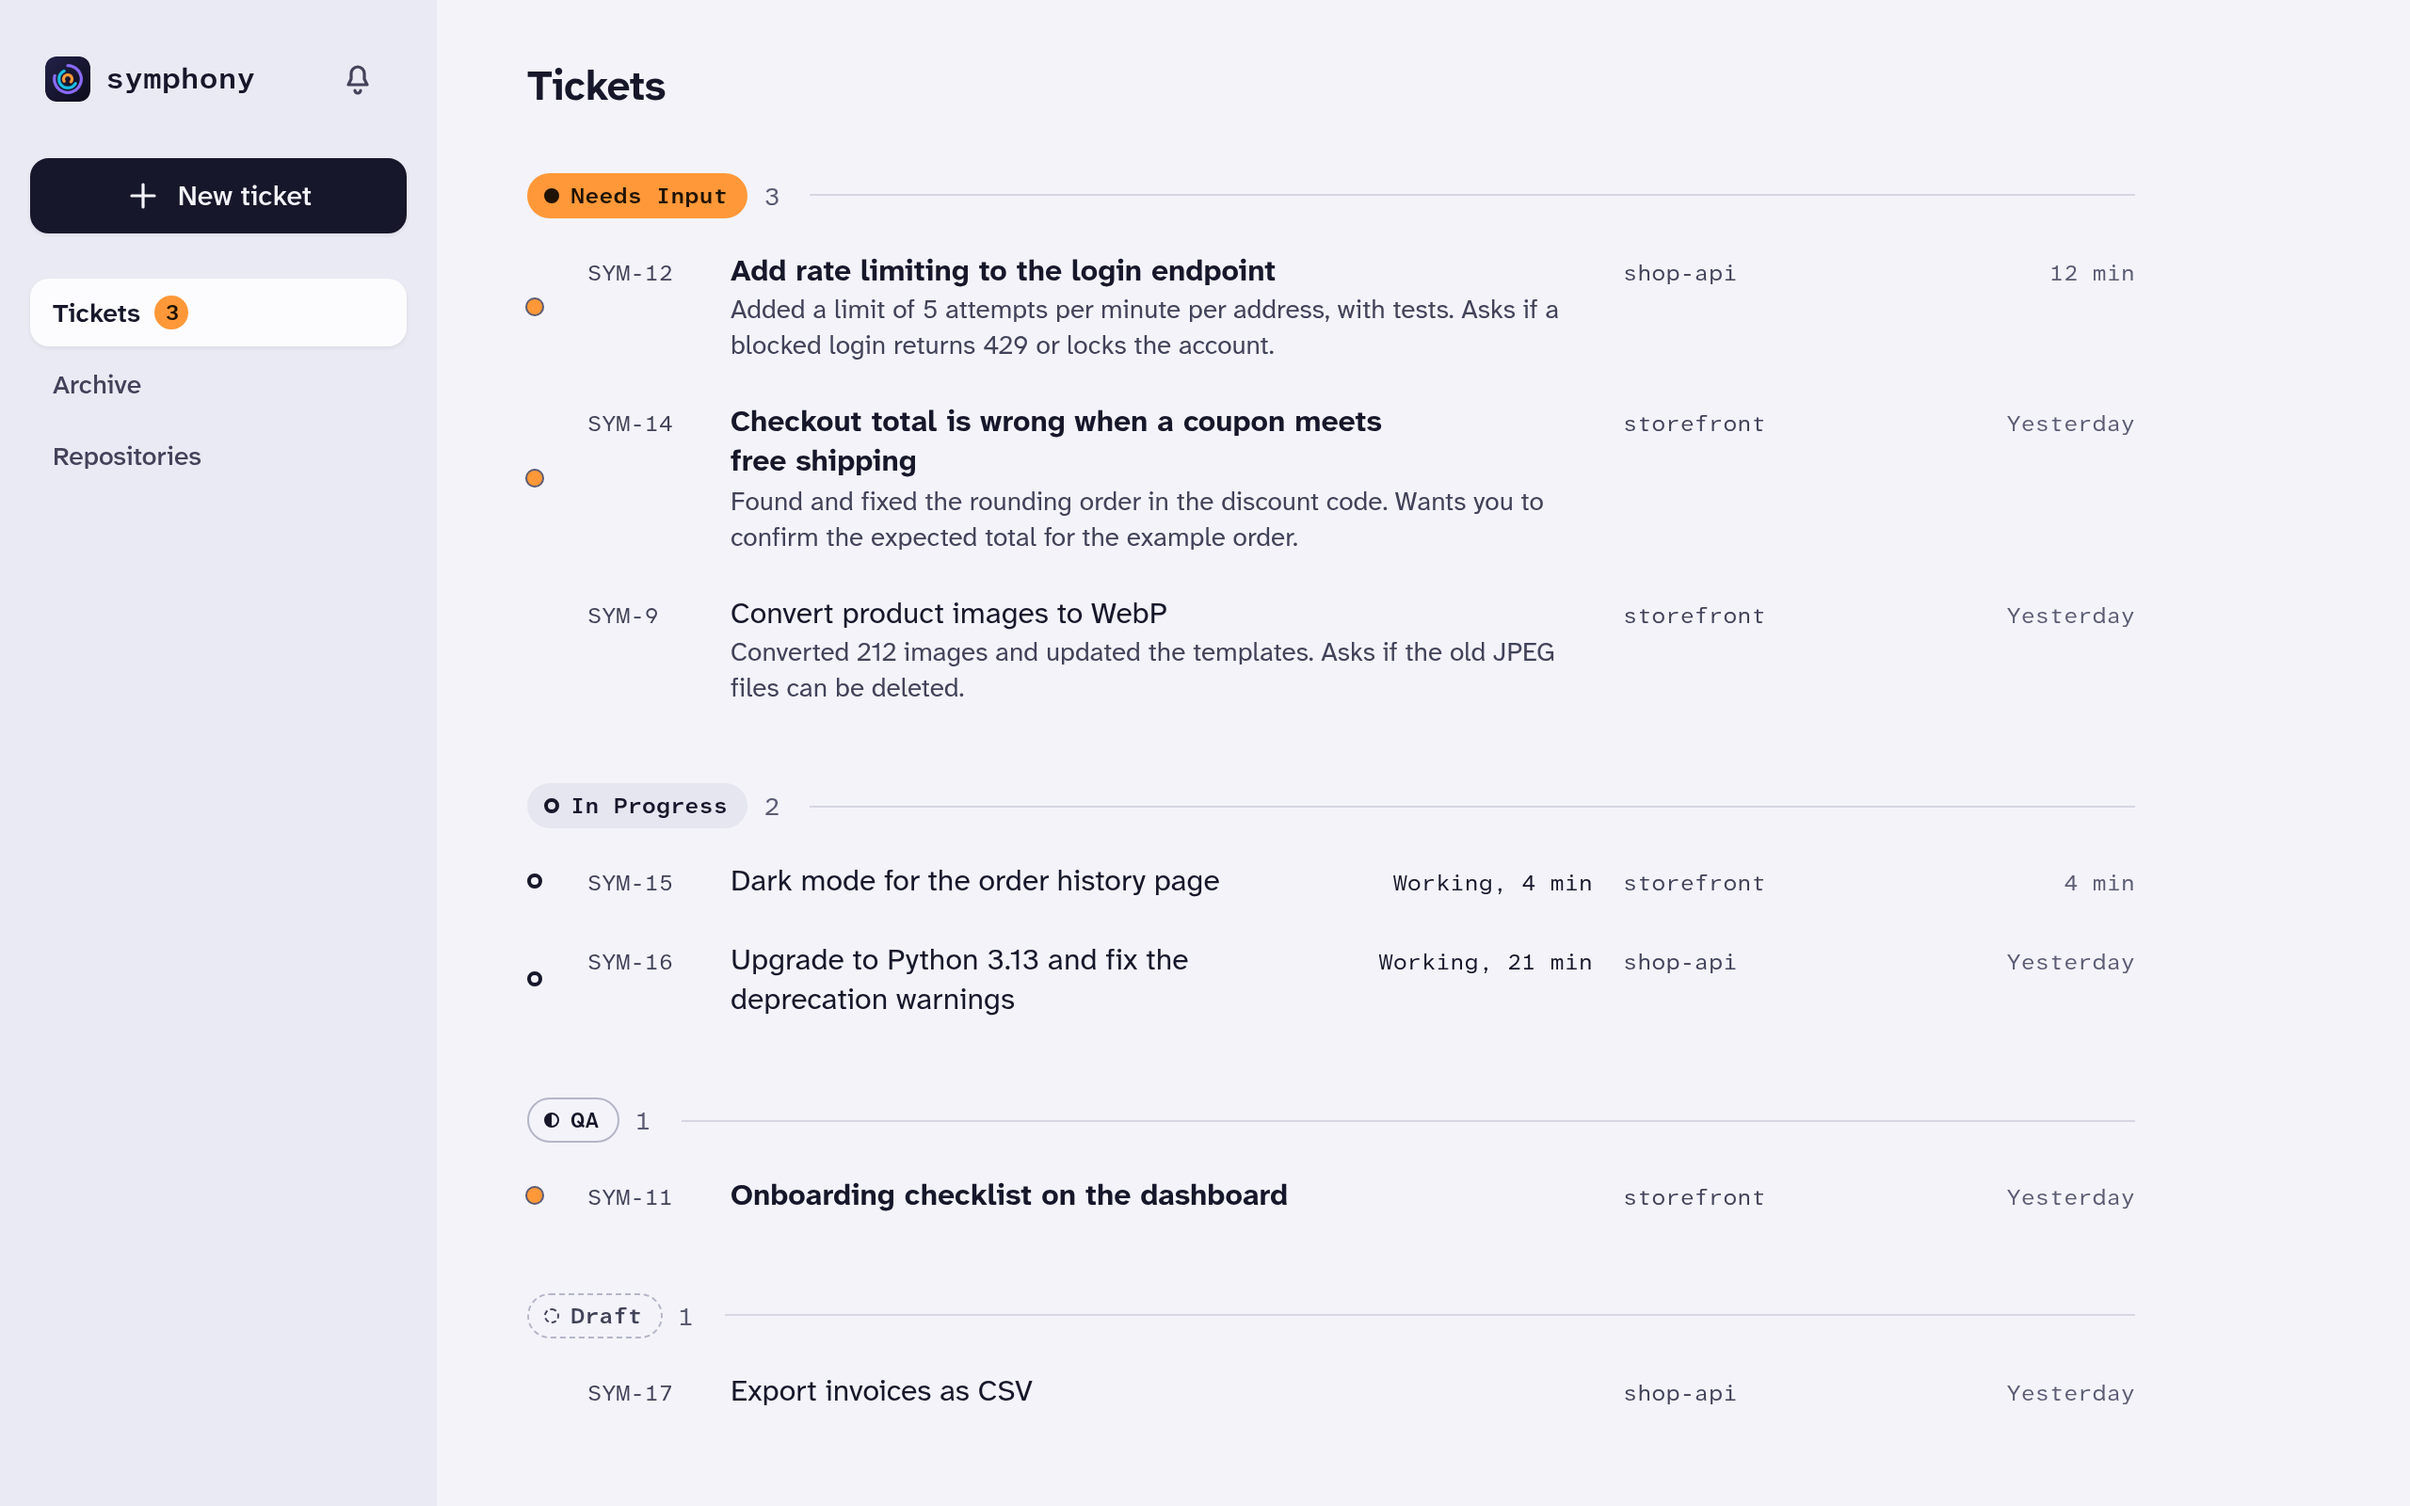
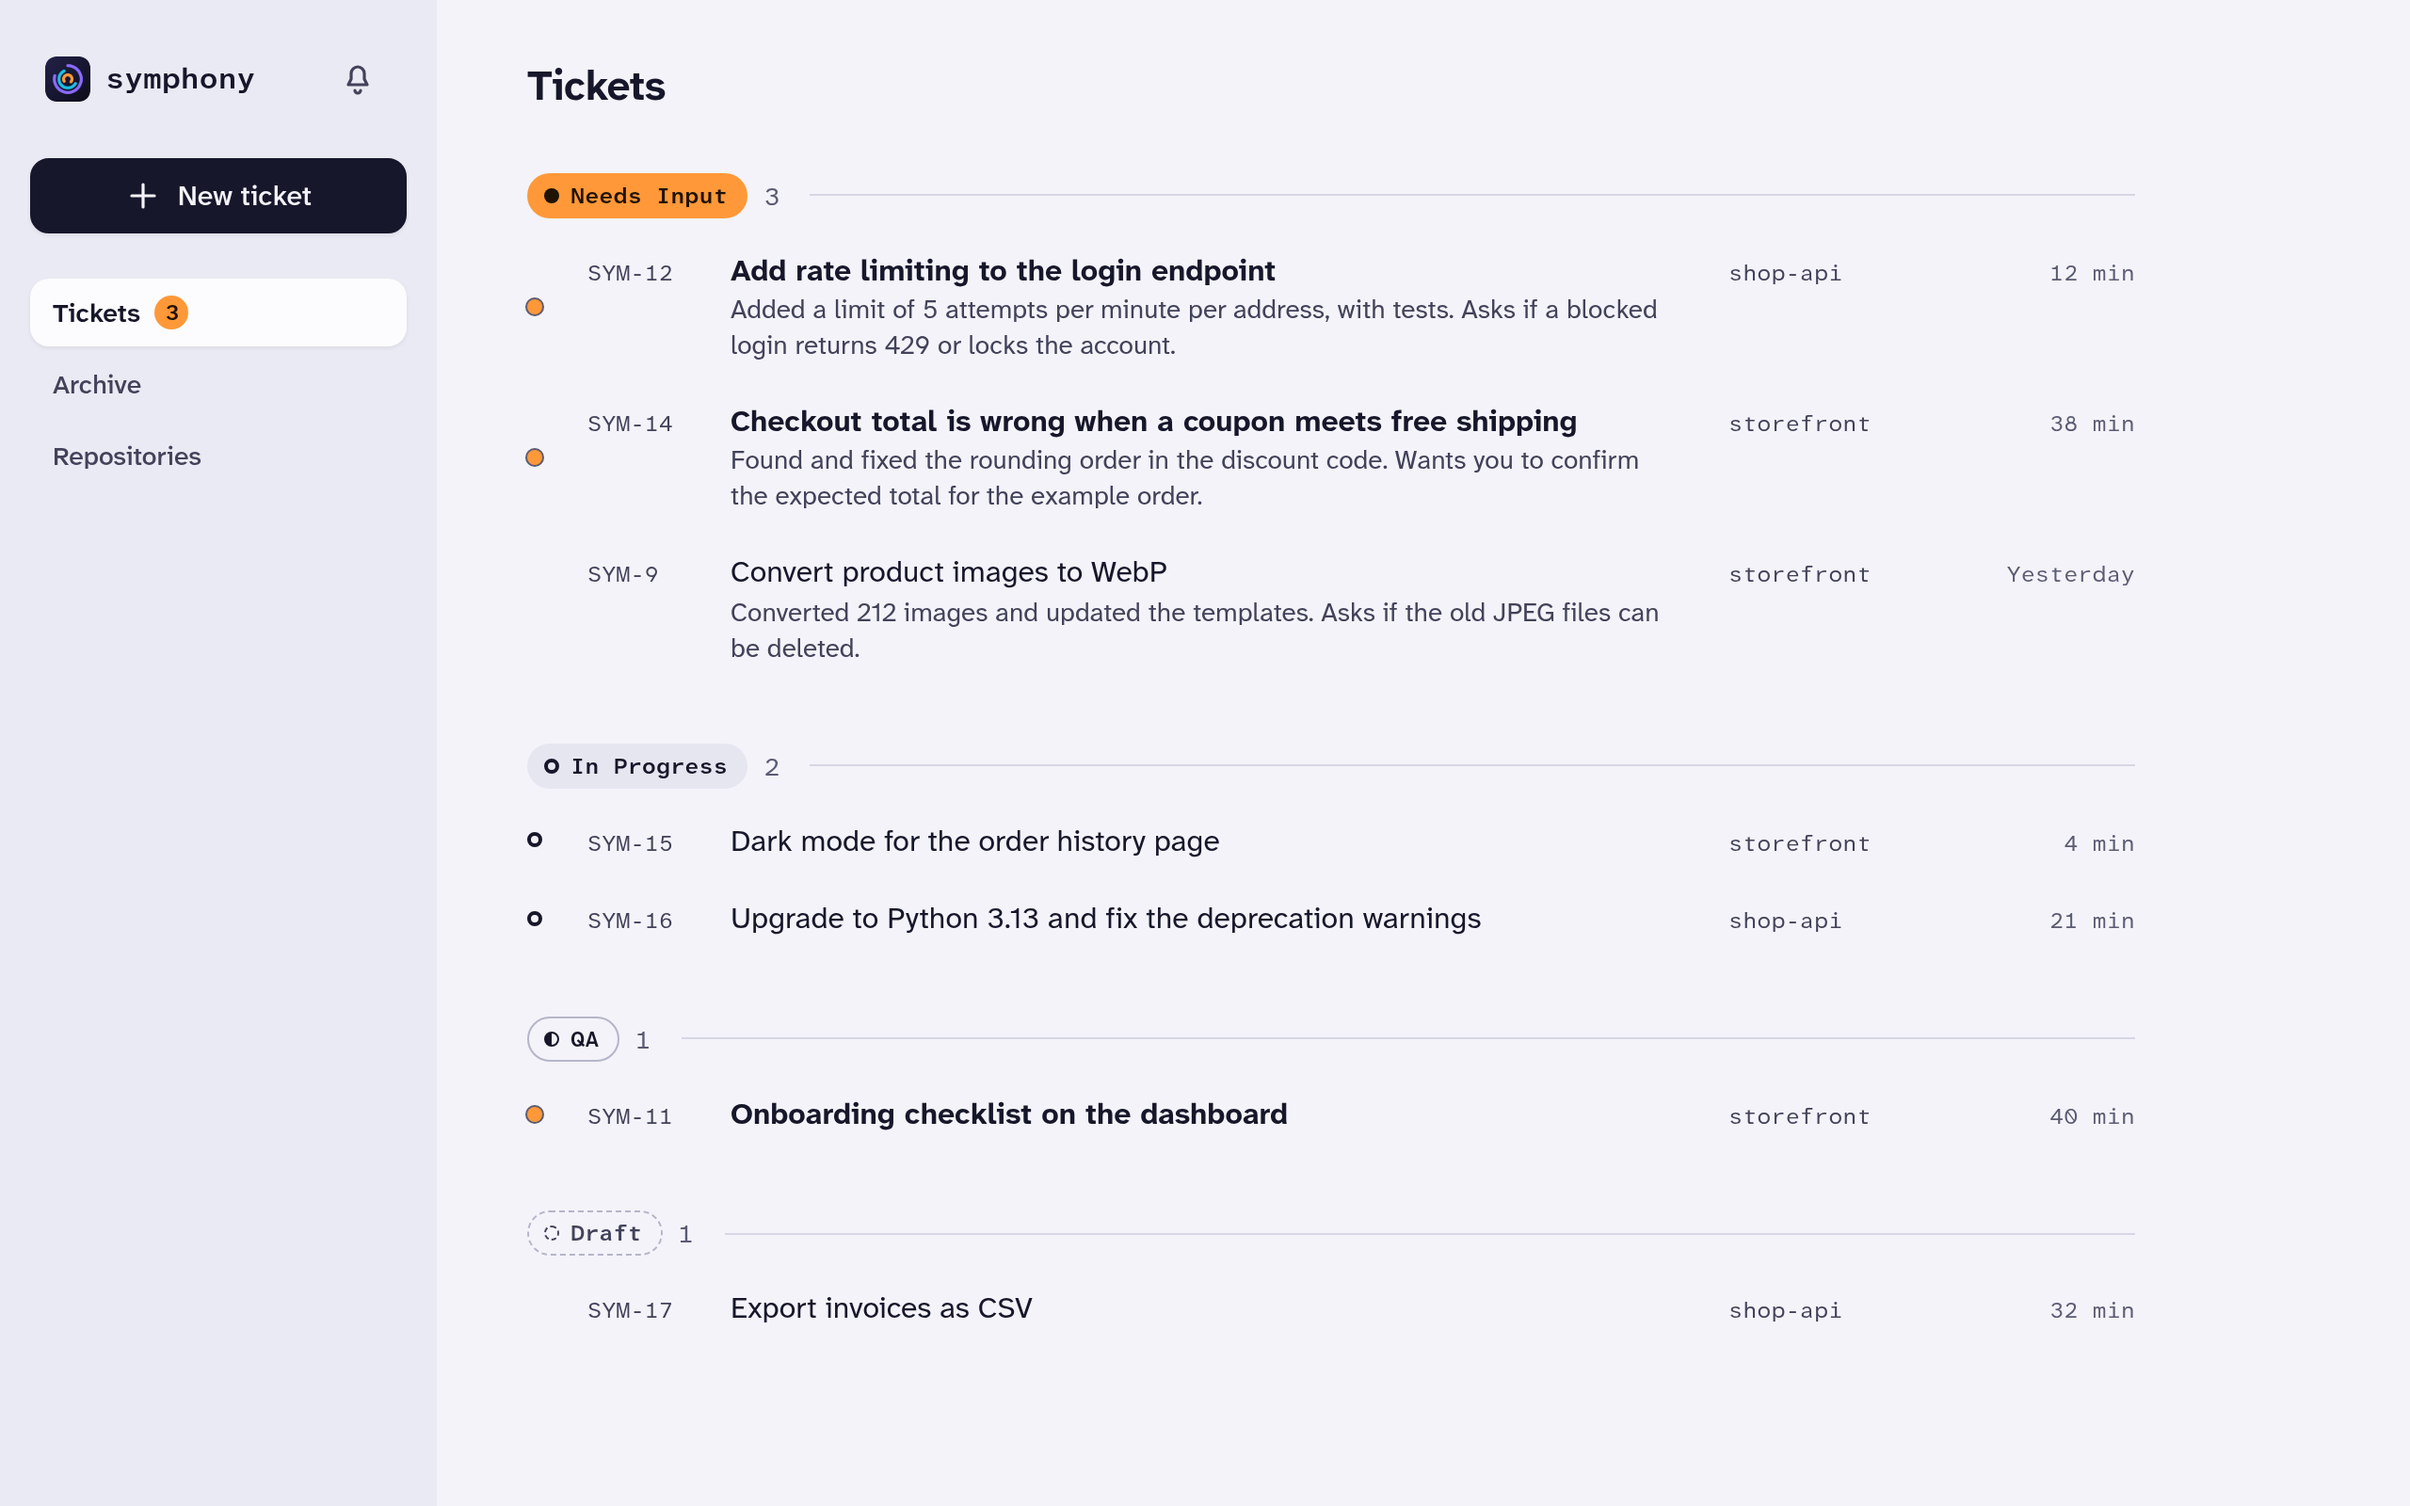
fix: Drop the duplicate working time from list rows and narrow the repo column

diff --git a/symphony_linear/webui/templates/_macros.html b/symphony_linear/webui/templates/_macros.html
@@ -57,7 +57,6 @@
     <span class="row-sub">
       <span class="row-id">{{ row.id }}</span>
       <span class="row-repo"{% if row.repo_url %} title="{{ row.repo_url }}"{% endif %}>{{ row.repo }}</span>
-      {%- if row.working and row.working_for %}<span class="row-flag">Working, {{ row.working_for }}</span>{% endif -%}
       {%- if row.failed %}<span class="row-flag row-flag--failed">Last turn failed</span>{% endif -%}
     </span>
     <span class="row-time"><time datetime="{{ row.updated_at }}" data-format="relative">{{ row.updated_text }}</time></span>

diff --git a/symphony_linear/webui/static/symphony.css b/symphony_linear/webui/static/symphony.css
@@ -437,7 +437,7 @@ body.sym { min-height: 100dvh; }
     padding-right: max(var(--s7), calc(100% - 960px + var(--s7)));
   }
   .row {
-    grid-template-columns: 16px 60px minmax(0, 1fr) auto 176px 80px;
+    grid-template-columns: 16px 60px minmax(0, 1fr) auto 120px 80px;
     grid-template-areas: "mark id title flag repo time";
     column-gap: var(--s4); align-items: baseline;
     padding: 9px var(--s3);

diff --git a/symphony_linear/webui/views.py b/symphony_linear/webui/views.py
@@ -90,7 +90,6 @@ class Row:
     updated_at: str
     updated_text: str
     working: bool
-    working_for: str | None
     failed: bool
     unread: bool
 
@@ -184,20 +183,6 @@ def _utc_text(value: str) -> str:
     return parsed.astimezone(timezone.utc).strftime("%d %b %Y, %H:%M UTC")
 
 
-def _elapsed_text(start: str, now: datetime) -> str:
-    parsed = _parse_datetime(start)
-    if parsed is None:
-        return "0 s"
-    seconds = max(0, int((now - parsed).total_seconds()))
-    if seconds < 60:
-        return f"{seconds} s"
-    if seconds < 3600:
-        return f"{seconds // 60} min"
-    if seconds < 86400:
-        return f"{seconds // 3600} h"
-    return f"{seconds // 86400} d"
-
-
 # ---------------------------------------------------------------------------
 # Row assembly
 # ---------------------------------------------------------------------------
@@ -232,7 +217,6 @@ def latest_agent_summary(ticket: LocalTicket) -> str | None:
 def _row(
     ticket: LocalTicket,
     state_entry: TicketState | None,
-    now: datetime,
     names: Mapping[str, str],
 ) -> Row:
     failed = turn_failed(state_entry)
@@ -254,7 +238,6 @@ def _row(
         updated_at=ticket.updated_at,
         updated_text=_utc_text(ticket.updated_at),
         working=working,
-        working_for=_elapsed_text(ticket.state_changed_at, now) if working else None,
         failed=failed,
         unread=is_unread(ticket),
     )
@@ -286,7 +269,6 @@ def _fingerprint(value: object) -> str:
 
 def home_list(request: Request) -> HomeList:
     """Build the home page's groups and the fingerprint of their rendering."""
-    now = datetime.now(timezone.utc)
     tickets = request.app.store.list_tickets()
     state_entries = _state_entries(request)
     names = repo_names(request.app.store.list_repos())
@@ -296,8 +278,7 @@ def home_list(request: Request) -> HomeList:
         matching = [ticket for ticket in tickets if ticket.state == state]
         matching.sort(key=lambda ticket: _sort_key(ticket.updated_at), reverse=True)
         rows = tuple(
-            _row(ticket, state_entries.get(ticket.id), now, names)
-            for ticket in matching
+            _row(ticket, state_entries.get(ticket.id), names) for ticket in matching
         )
         groups.append(
             Group(
@@ -319,7 +300,6 @@ def home_list(request: Request) -> HomeList:
 
 def archive_list(request: Request) -> ArchiveList:
     """Build the archive page's Done rows and their fingerprint."""
-    now = datetime.now(timezone.utc)
     done = [
         ticket
         for ticket in request.app.store.list_tickets()
@@ -329,7 +309,7 @@ def archive_list(request: Request) -> ArchiveList:
     names = repo_names(request.app.store.list_repos())
     # The working/failed row variants belong to the home page; a finished
     # ticket is shown plainly even if a stale StateManager entry lingers.
-    rows = tuple(_row(ticket, None, now, names) for ticket in done)
+    rows = tuple(_row(ticket, None, names) for ticket in done)
     return ArchiveList(
         rows=rows,
         count=len(rows),

diff --git a/tests/test_webui_server.py b/tests/test_webui_server.py
@@ -476,7 +476,9 @@ class TestHomePage:
         text = body.decode()
         assert "row--working" in text
         assert "mark--working" in text
-        assert "Working, " in text
+        # The pulsing mark and the In Progress heading already say it; the
+        # time column already shows the age.
+        assert "Working, " not in text
 
     def test_failed_status_and_setup_error_use_failed_variant(
         self, tmp_path: Path
